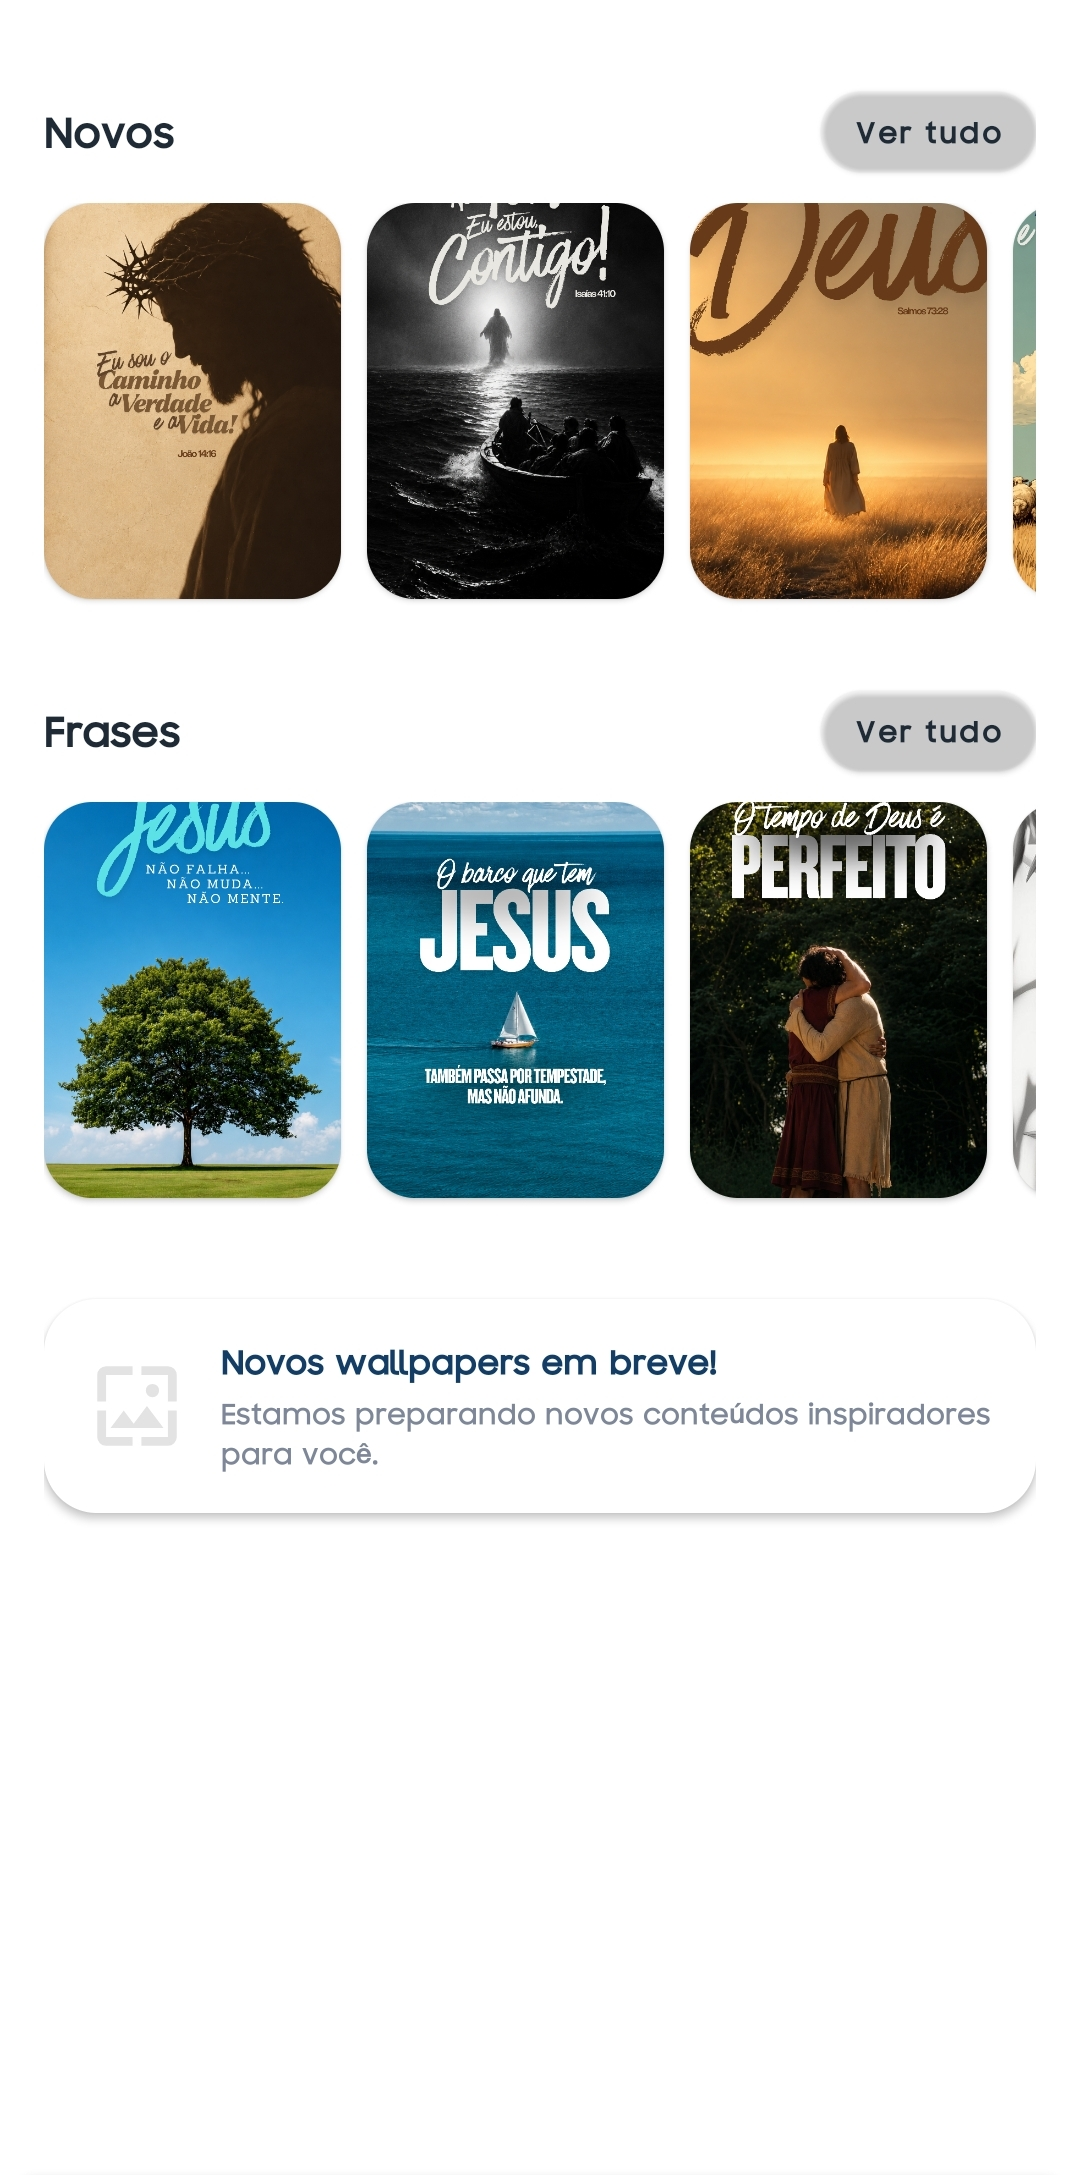
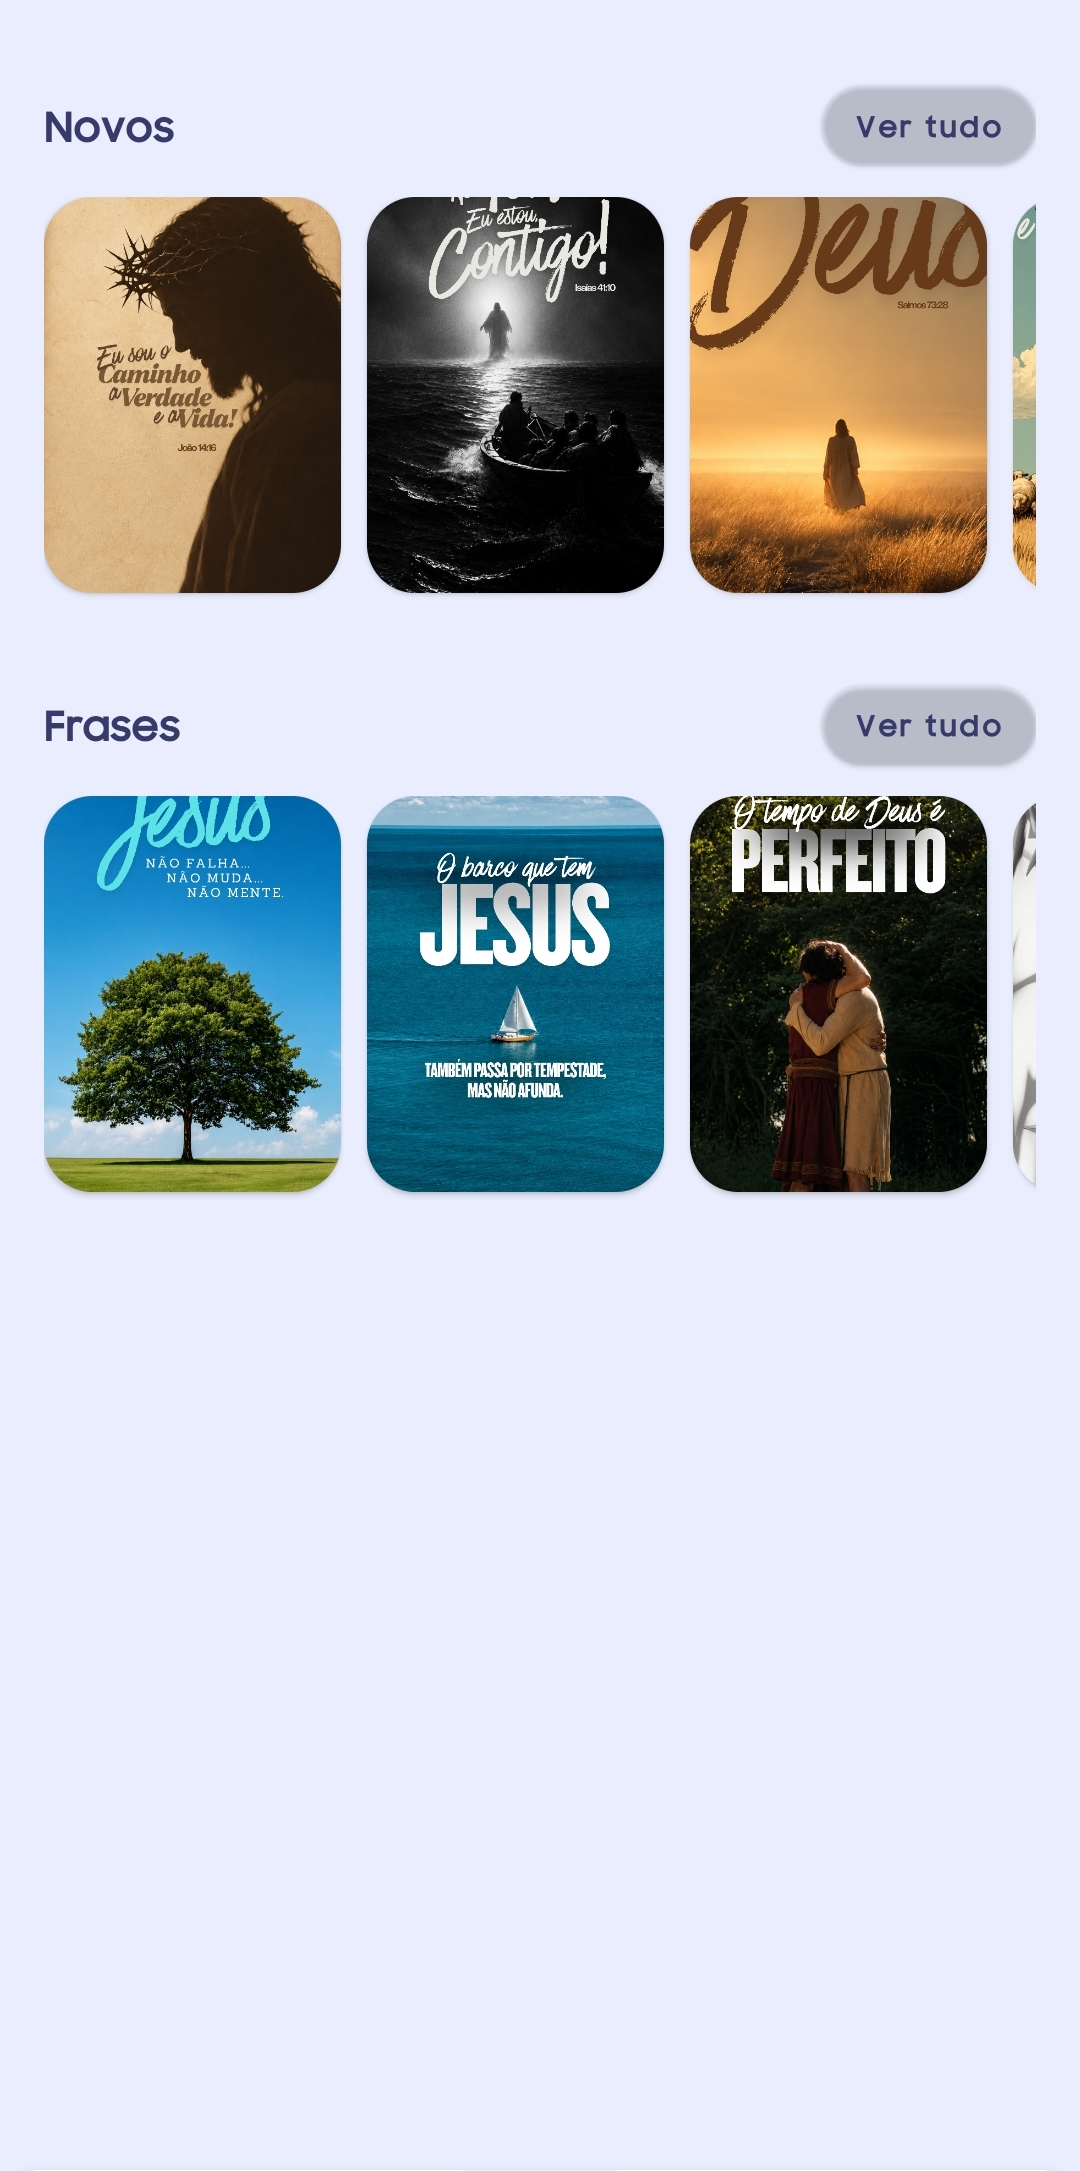
Atualiza telas e identidade visual

diff --git a/src/App.tsx b/src/App.tsx
@@ -2,7 +2,6 @@ import Navbar from './components/Navbar/Navbar'
 import Hero from './components/Hero/Hero'
 import Pensamentos from './components/Pensamentos/Pensamentos'
 import Recursos from './components/Recursos/Recursos'
-import RecursosRapidos from './components/RecursosRapidos/RecursosRapidos'
 import DestaqueVersiculo from './components/DestaqueVersiculo/DestaqueVersiculo'
 import Ofertas from './components/Ofertas/Ofertas'
 import Sobre from './components/Sobre/Sobre'
@@ -19,7 +18,6 @@ function App() {
         <Hero />
         <Pensamentos />
         <Recursos />
-        <RecursosRapidos />
         <DestaqueVersiculo />
         <Ofertas />
         <Sobre />

diff --git a/src/components/Pensamentos/pensamentos.css b/src/components/Pensamentos/pensamentos.css
@@ -14,12 +14,12 @@
   border-radius: 28px;
 
   background:
-    linear-gradient(
-      135deg,
-      #092d73 0%,
-      #1d579e 50%,
-      #4fa8e8 100%
-    );
+  linear-gradient(
+    180deg,
+    #363B6C 0%,
+    #706FA8 45%,
+    #A8A3E3 100%
+  );
 
   color: #ffffff;
 

diff --git a/src/components/DestaqueVersiculo/destaque-versiculo.css b/src/components/DestaqueVersiculo/destaque-versiculo.css
@@ -5,12 +5,12 @@
   padding: 100px 24px;
 
   background:
-    linear-gradient(
-      180deg,
-      #092d73 0%,
-      #16458c 45%,
-      #4c8bc7 100%
-    );
+  linear-gradient(
+    180deg,
+    #363B6C 0%,
+    #706FA8 45%,
+    #A8A3E3 100%
+  );
 
   color: #ffffff;
 }

diff --git a/src/components/Recursos/recursos.css b/src/components/Recursos/recursos.css
@@ -3,12 +3,12 @@
   overflow: hidden;
 
   background:
-    linear-gradient(
-      180deg,
-      #092d73 0%,
-      #16458c 45%,
-      #4c8bc7 100%
-    );
+  linear-gradient(
+    180deg,
+    #363B6C 0%,
+    #706FA8 45%,
+    #A8A3E3 100%
+  );
 
   padding: 100px 0;
 

diff --git a/src/components/Hero/hero.css b/src/components/Hero/hero.css
@@ -3,12 +3,12 @@
   overflow: hidden;
 
   background:
-    linear-gradient(
-      180deg,
-      #092d73 0%,
-      #16458c 45%,
-      #4c8bc7 100%
-    );
+  linear-gradient(
+    180deg,
+    #363B6C 0%,
+    #706FA8 45%,
+    #A8A3E3 100%
+  );
 
   color: #ffffff;
 }

diff --git a/src/components/Ofertas/ofertas.css b/src/components/Ofertas/ofertas.css
@@ -7,7 +7,7 @@
   background:
     linear-gradient(
       180deg,
-      #172033 100%
+      #363B6C 100%
     );
 
   color: #ffffff;

diff --git a/src/components/CTA/cta.css b/src/components/CTA/cta.css
@@ -1,7 +1,7 @@
 .cta-final {
   padding: 110px 24px;
 
-  background: #172033;
+  background: #363B6C;
 
   color: #ffffff;
 }

diff --git a/src/components/Footer/footer.css b/src/components/Footer/footer.css
@@ -1,6 +1,6 @@
 .footer {
   padding: 70px 24px 25px;
-  background: #0f1726;
+  background: #363B6C;
   color: #ffffff;
 }
 
